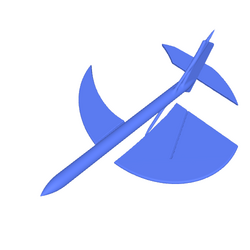
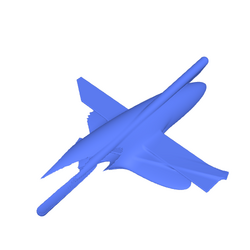
Updated sigmoid loss result

Changed region(s): [[0.14, 0.112, 0.952, 0.868]]

diff --git a/ExperimentsAndResults.tex b/ExperimentsAndResults.tex
@@ -73,9 +73,9 @@ The MSE loss performed best in the CD and EMD testing metrics while the LOG loss
 		CD  & 155.8787 & 155.78         & 1488.4         & 0.3002          & 5  & 9.4 & 1441.4 & 180 & 203 \\
 		L1  & 0.0303   & 77.81          & 1012.1         & 0.4415          & 72 & 7.2 & 50.9   & 294 & 310 \\
 		LOG & 0.2981   & 81.23          & 1010.1         & \textbf{0.4750} & 72 & 7.2 & 51.9   & 294 & 301 \\
-		MSE & 0.0027   & \textbf{71.97} & \textbf{938.5} & 0.3714          & 72 & 7.2 & 36.7   & 200 & 206 \\
+		MSE & 0.0027   & 71.97          & 938.5          & 0.3714          & 72 & 7.2 & 36.7   & 200 & 206 \\
 		OCC & 0.5527   & 221.47         & 1345.5         & 0.2536          & 72 & 6.2 & 33.9   & 182 & 216 \\
-		SIG & 0.4078   & 121.76         & 1309.5         & 0.3882          & 72 & 7.2 & 31.2   & 161 & 174 \\
+		SIG & 0.2910   & \textbf{61.44} & \textbf{786.5} & 0.3992          & 72 & 6.6 & 55.3   & 270 & 310 \\
 		\hline
 	\end{tabular}
 	\caption{Performance comparison of six different reconstruction loss metrics. Lower is better for CD and EMD. Higher is better for IoU.}

diff --git a/Method.tex b/Method.tex
@@ -112,14 +112,14 @@ We use a progressive training method inspired by Curriculum DeepSDF. In the firs
 
 \begin{figure}
 	\centering
-	\includegraphics[scale=1.0]{Figures/Shared Params Training/shared_training_figure.pdf}
+	\includegraphics[scale=1.0]{Images/shared_training_figure.pdf}
 	\caption{Shared Parameter Training.}
 	\label{fig:shared_training}
 \end{figure}
 
 \begin{figure}
 	\centering
-	\includegraphics[scale=0.65]{Figures/Separate Params Training/separate_training_figure.pdf}
+	\includegraphics[scale=0.65]{Images/separate_training_figure.pdf}
 	\caption{Separate Parameter Training.}
 	\label{fig:separate_training}
 \end{figure}
